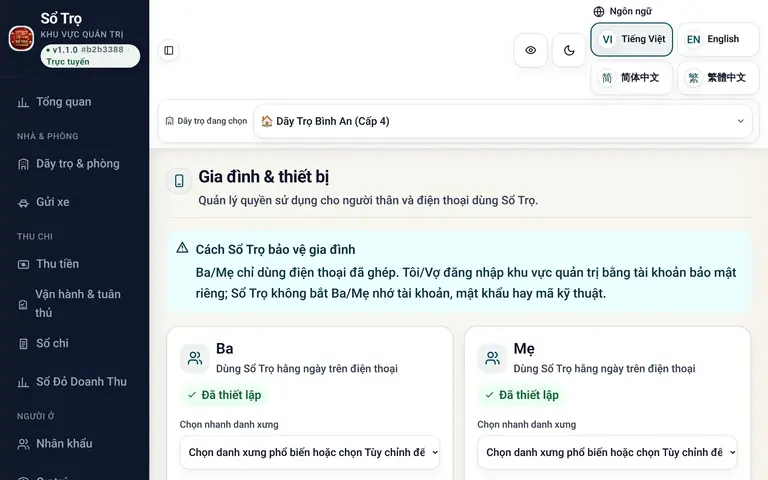
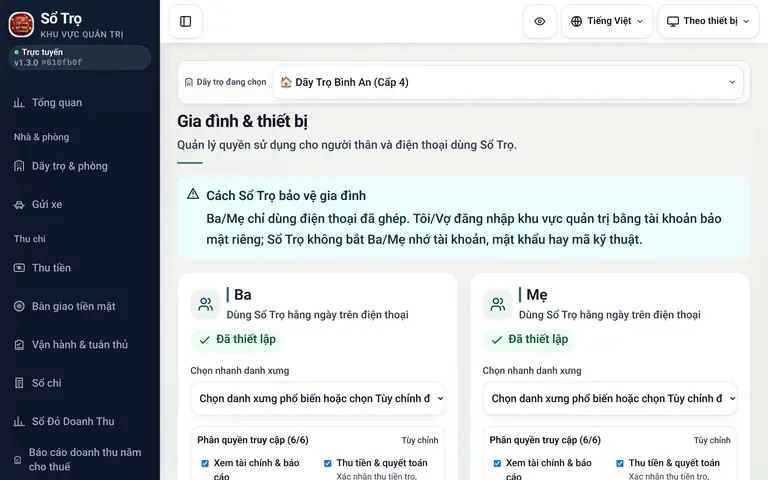
feat(showcase): refresh Sổ Trọ screens from sotro 610fb0f
Recapture all ten Sổ Trọ showcase screens from a local test build of
BlueSkyz-Labs/sotro main 610fb0f with the repository's synthetic seed
(same viewports, 2x, crop and derivative sizes as the 2026-09-30 set).

- Update capture sourceRevision and capturedAt (2026-10-25, GMT+7).
- Rewrite only the alt/caption wording that no longer matches the new
  screens: pair title, home list, collect controls, rooms layout.
- Derivatives encoded at q75 so the hero 480w stays under its 30 KB cap.
- The intro video still shows the b2b3388 screens; comment says so.
- Hero e2e pin follows the new capture date.

Claude-Session: https://claude.ai/code/session_01SCqxvNgLgL6f3GWTLYLZNu

diff --git a/tests/e2e/v7-hero.spec.ts b/tests/e2e/v7-hero.spec.ts
@@ -124,7 +124,7 @@ test("the hero keeps the sample-data label and the date, not the revision", asyn
   await page.goto("/en/");
   const caption = page.locator("[data-hero-flagship] figcaption");
   await expect(caption).toContainText("sample data");
-  await expect(caption).toContainText("2026-09-30");
+  await expect(caption).toContainText("2026-10-25");
   await expect(
     page.locator("[data-hero-flagship] [data-flagship-capture]"),
   ).toHaveAttribute("data-capture-revision", /^[0-9a-f]{7}$/);
